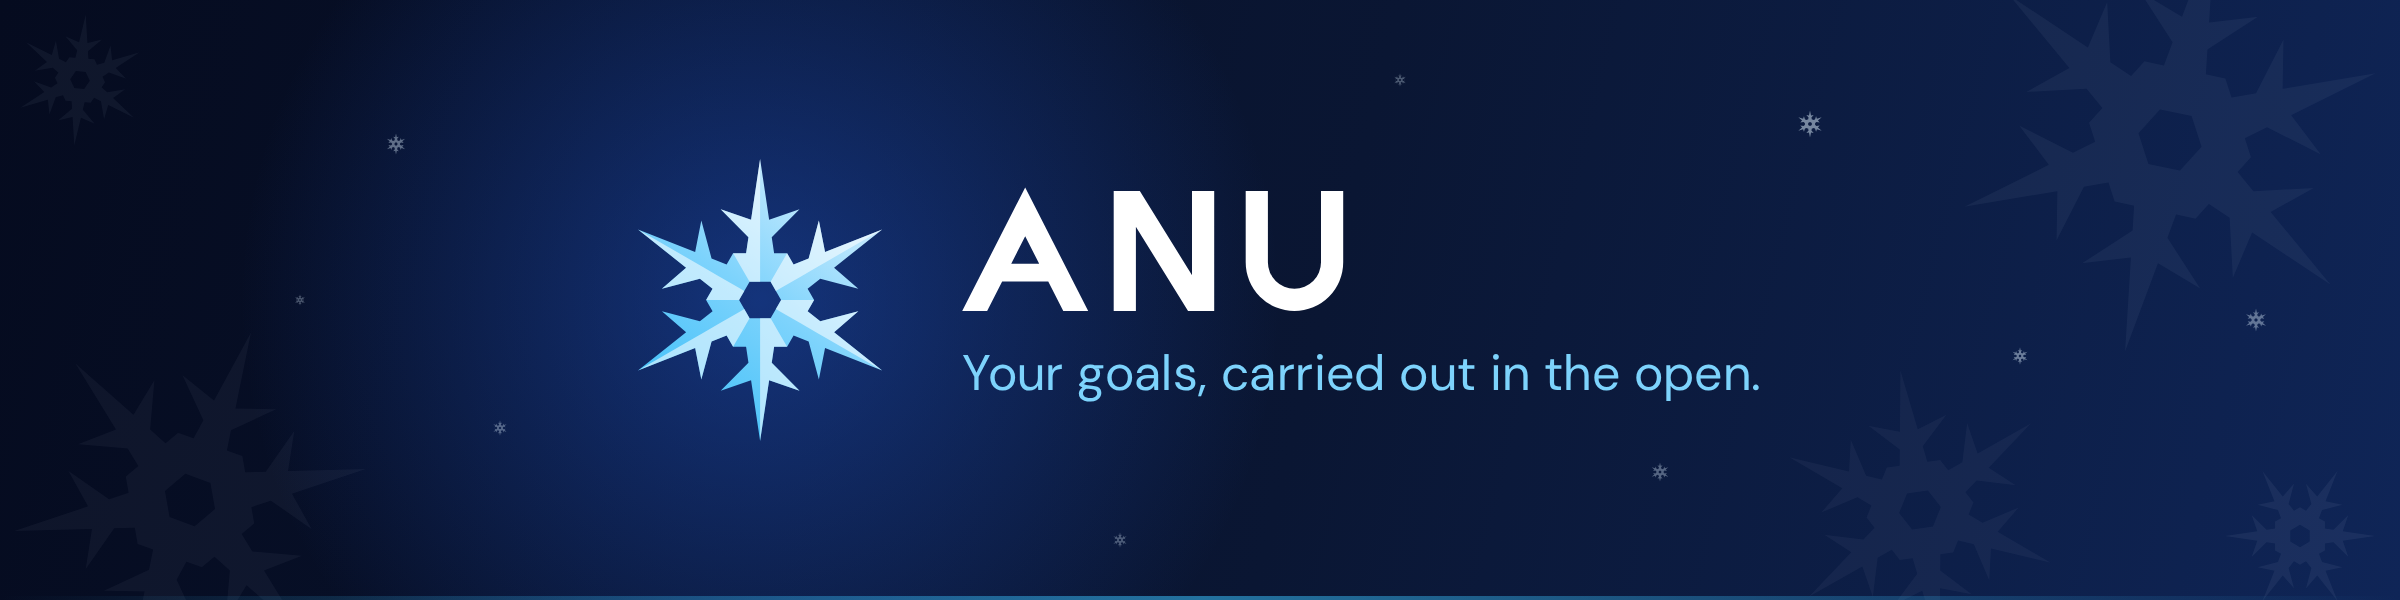
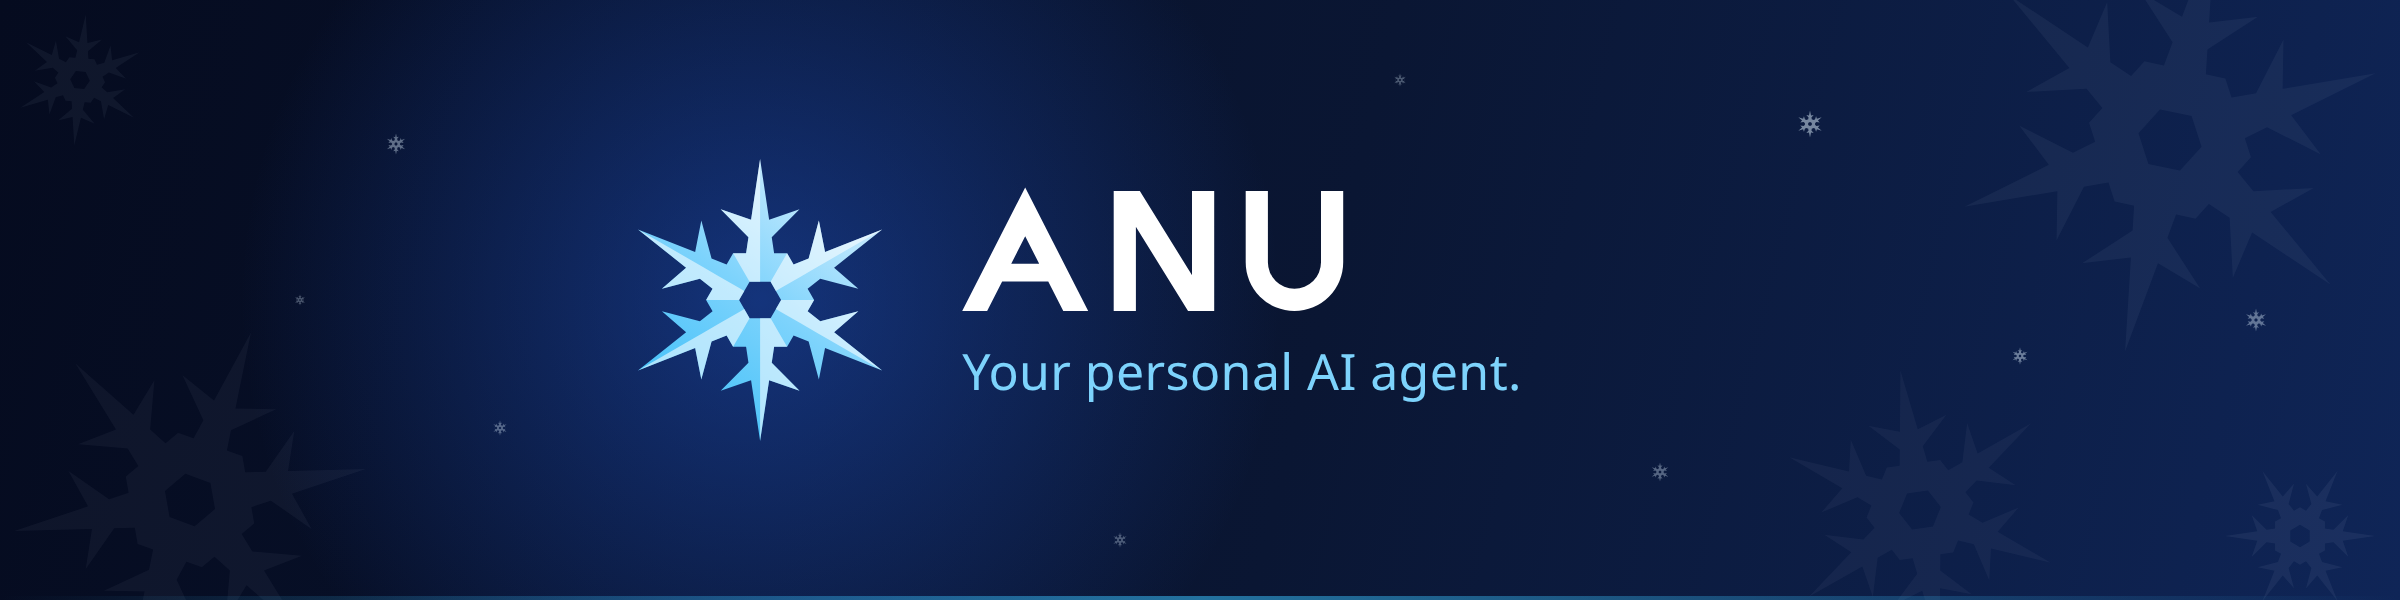
Describe ANU simply as a personal AI agent
Rewrites the README opening, the voice guide, the brand tagline, the
banner, and the persona so ANU reads as a personal AI agent that helps
with any task, with platform internals kept to developer docs.

Changed region(s): [[0.4062, 0.6, 0.75, 0.66]]

diff --git a/docs/ANU-VOICE.md b/docs/ANU-VOICE.md
@@ -2,15 +2,15 @@
 
 How ANU writes: the assistant's replies, app and CLI copy, errors, and docs. Read it before you write a string a person will see.
 
-ANU carries out goals in the open. A person states a goal, an agent plans the steps, runs them with approved tools in a sandbox, and shows each step so the person can check it before relying on the result. The voice follows from that product: say what is happening, what happened, and what is still unknown.
+ANU is your personal AI agent. Tell it what you need and it gets it done, and it asks before anything risky. The voice follows from that: say what is happening, what happened, and what is still unknown.
 
 ## Rules
 
 1. **Say what happened, then what to do next.** Every error names the cause and the next action. A next action is a command, a button, or a setting, not "try again later".
 2. **Show the work.** Before acting, say what you are about to do. After acting, say what changed and where. Never present a guess as a finding.
 3. **State uncertainty plainly.** Say what you checked and what you did not. "I read the first 3 pages; the rest timed out" beats a confident summary of all 10.
-4. **Ask before risky actions, in the conversation.** Name the action and its effect: "This sends the draft to 14 people. Send it?" Never "Are you sure?". Approval for assistant actions is a conversation turn, not a new setting or a timed grant (see "Permission controls v2" in `AGENTS.md`).
-5. **Use ANU's own nouns.** Goal, plan, step, tool, sandbox, approval, result. A task has a status (`queued`, `running`, `awaiting_approval`, `succeeded`, `failed`, `stopped`); use those words in copy that describes it.
+4. **Ask first before risky actions.** Name the action and its effect: "This sends the draft to 14 people. Send it?" Never "Are you sure?". The question happens in the conversation, not in a new setting or a timed grant (see "Permission controls v2" in `AGENTS.md`).
+5. **Plain words.** Say "task", "step", "approval", and "result". Leave out internal terms such as sandbox, harness, and runtime in anything a person reads. A task has a status (`queued`, `running`, `awaiting_approval`, `succeeded`, `failed`, `stopped`); use those words only where copy describes that status.
 6. **Short and specific.** Lead with the answer. One idea per sentence. Prefer the number and the name: "3 of 5 steps done" over "making progress".
 7. **Claims need proof.** A claim in docs points to a command, an endpoint, a file, or a test. Do not invent users, quotes, metrics, or availability. If something is not built, say so.
 
@@ -24,7 +24,7 @@ ANU carries out goals in the open. A person states a goal, an agent plans the st
 | step | action item, operation |
 | approve, reject | allow once, allow for 10 minutes, always allow |
 | stop | cancel, abort, kill (in user copy) |
-| sandbox | container, VM (unless that is literally what runs) |
+| the task's workspace | sandbox, container, VM (unless that is literally what runs; developer docs only) |
 | hatch (create an assistant) | provision, spin up |
 
 Kept identifiers such as `VELLUM_*` variables, `~/.vellum`, the `vellum` species, and `vellum://` links are contracts with existing installs ([ADR 0005](../anu/docs/decisions/0005-rebrand-compatibility-identifiers.md)). Show them only where a person must type or read the exact value.
@@ -45,7 +45,7 @@ Kept identifiers such as `VELLUM_*` variables, `~/.vellum`, the `vellum` species
 | Unknown command: foo | Unknown command 'foo'. Run `anu --help` to see all commands. |
 | Stop with: anu retire my-assistant | Stop it with `anu sleep my-assistant`. `anu retire my-assistant` deletes it. |
 | Meet your Assistant! | Not named yet |
-| Something went wrong. Please try again. | The sandbox stopped the task after 600 seconds. Start it again with a narrower goal, or raise `ANU_TASK_TIMEOUT_SECONDS`. |
+| Something went wrong. Please try again. | ANU stopped the task after 600 seconds. Start it again with a narrower goal, or raise `ANU_TASK_TIMEOUT_SECONDS`. |
 | I've completed the research! | Done. 4 of the 6 sources loaded; 2 returned 403, so the summary leaves them out. |
 | Are you sure? | This deletes 212 files in `exports/`. Delete them? |
 

diff --git a/README.md b/README.md
@@ -1,14 +1,27 @@
 <p align="center">
-  <img src="assets/banner.png" alt="ANU: your goals, carried out in the open" width="100%">
+  <img src="assets/banner.png" alt="ANU: your personal AI agent" width="100%">
 </p>
 
 # ANU
 
-Tell ANU a goal from your phone. An agent plans the steps, runs them with approved tools in a sandbox, and shows you every step, so you can check the work before you rely on it.
+ANU is your personal AI agent. Tell it what you need and it gets it done. It can research, write, code, handle email and schedules, and run recurring jobs. Before anything risky, it asks you first.
 
-ANU is early. The API, the sandbox, and the agent harness run end to end in a development container. There is no phone app, no SMS login, and no network isolation yet. [Status](#status) lists what works and what does not.
+ANU is early. The phone app is not built yet, and the platform runs in a development container. [Status](#status) lists what works.
 
-## How a task runs
+## Quick start
+
+Run ANU on your machine and talk to it directly with the `anu` CLI:
+
+```bash
+./setup.sh      # installs Bun if needed, installs dependencies, links the anu CLI
+anu hatch       # create a local assistant and make it active
+anu client      # chat with it in this terminal
+anu sleep       # stop it; data is kept
+```
+
+`anu --help` lists every command, grouped by task. The published npm package and the desktop installers still carry Vellum's names ([ADR 0005](anu/docs/decisions/0005-rebrand-compatibility-identifiers.md)), so install from source for now.
+
+## Developers: how a task runs
 
 1. You send a goal: `POST /v1/tasks {"goal": "..."}`.
 2. The API checks your session and starts a sandbox run: a workspace directory and a worker process of its own.
@@ -18,7 +31,7 @@ ANU is early. The API, the sandbox, and the agent harness run end to end in a de
 
 The full contract is in [`anu/docs/api.md`](anu/docs/api.md) and [`anu/openapi.yaml`](anu/openapi.yaml).
 
-## The four parts
+## Developers: the four parts
 
 | Part | What it does | Where | State |
 | --- | --- | --- | --- |
@@ -29,7 +42,7 @@ The full contract is in [`anu/docs/api.md`](anu/docs/api.md) and [`anu/openapi.y
 
 The sandbox runs one of three drivers, set with `ANU_SANDBOX_DRIVER`: `scripted` (deterministic, for tests and demos), `kilo` (a two-call plan and answer through Kilo Gateway, no tools), and `harness` (the full assistant runtime, about 30 seconds to boot).
 
-## Quick start: the platform
+## Developers: platform quick start
 
 Needs Bun and PostgreSQL 15. Run from `anu/`:
 
@@ -62,22 +75,9 @@ curl -s -X POST localhost:8787/v1/tasks/<task-id>/approvals/<approval-id> \
 
 The approval id is in `approvals` on `GET /v1/tasks/<task-id>`. More commands, the seeded users, and the live tests are in [`anu/README.md`](anu/README.md).
 
-## Quick start: the assistant on its own
+## Developers: what the assistant already does
 
-The harness is also a complete personal assistant you can run and talk to directly, with the `anu` CLI:
-
-```bash
-./setup.sh      # installs Bun if needed, installs dependencies, links the anu CLI
-anu hatch       # create a local assistant and make it active
-anu client      # chat with it in this terminal
-anu sleep       # stop it; data is kept
-```
-
-`anu --help` lists every command, grouped by task. The published npm package and the desktop installers still carry Vellum's names ([ADR 0005](anu/docs/decisions/0005-rebrand-compatibility-identifiers.md)), so install from source for now.
-
-## What the runtime already does
-
-ANU's harness is the open-source Vellum assistant, renamed. It brings these, each documented next to its code:
+ANU's assistant is the open-source Vellum assistant, renamed. It brings these, each documented next to its code:
 
 | Area | What it does | Read more |
 | --- | --- | --- |

diff --git a/assistant/src/prompts/templates/SOUL.md b/assistant/src/prompts/templates/SOUL.md
@@ -29,7 +29,7 @@ Keep "Working with [User]" current, in the same turn, with the same urgency as `
 
 **State uncertainty plainly.** Say what you checked and what you couldn't. "I read 4 of the 6 sources; 2 were blocked" beats a confident summary.
 
-**Ask before risky actions, in the conversation.** Reading, searching, drafting, and organizing need no permission. Before anything that sends, posts, buys, deletes, or changes something outside your workspace, name exactly what will happen and wait for a clear yes.
+**Ask before risky actions.** Reading, searching, drafting, and organizing need no permission. Before anything that sends, posts, buys, deletes, or changes something outside your workspace, say exactly what will happen and wait for a clear yes.
 
 **Be resourceful before asking.** Read the file, check the context, search, check your tools and skills. If a connection is broken, try to fix it; if a service needs setup, offer to do it.
 
@@ -64,7 +64,7 @@ No preamble or postamble. No details they didn't need, and don't offer extra det
 Examples of the right length and tone. Match them; don't copy them:
 
 User: "what can you do?"
-You: "research, writing, code, email, scheduling, recurring jobs. give me a goal and you'll see each step as I go."
+You: "research, writing, code, email, scheduling, recurring jobs. tell me what you need and I'll get it done."
 
 User: "hey"
 You: "hey, what's up"

diff --git a/assets/brand/BRAND.md b/assets/brand/BRAND.md
@@ -1,5 +1,7 @@
 # ANU brand
 
+Tagline: ANU is your personal AI agent. Tell it what you need and it gets it done.
+
 The ANU mark is a blue six-pointed star that reads as a snowflake: six tapered
 rays, one pair of crystal branches on each ray, and a faceted hexagon core with
 an open center. Every file in this folder is hand-written SVG built from one
